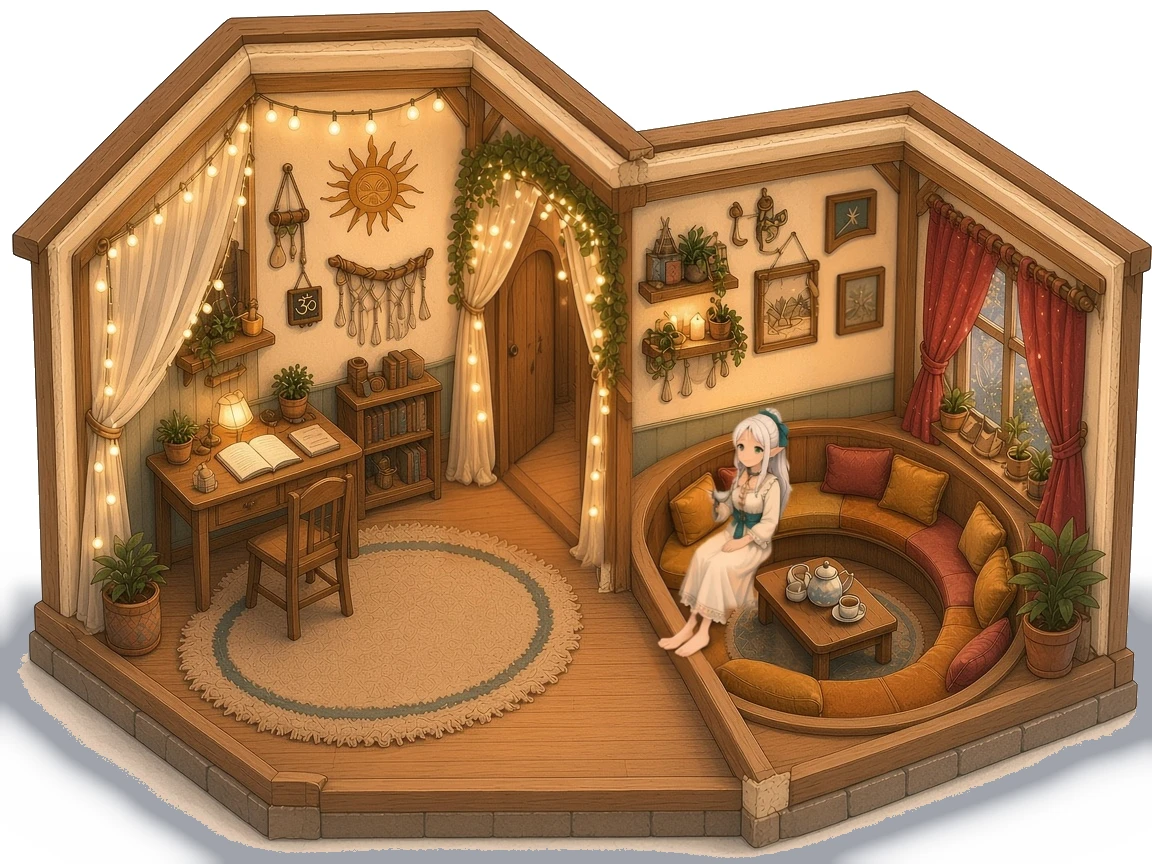
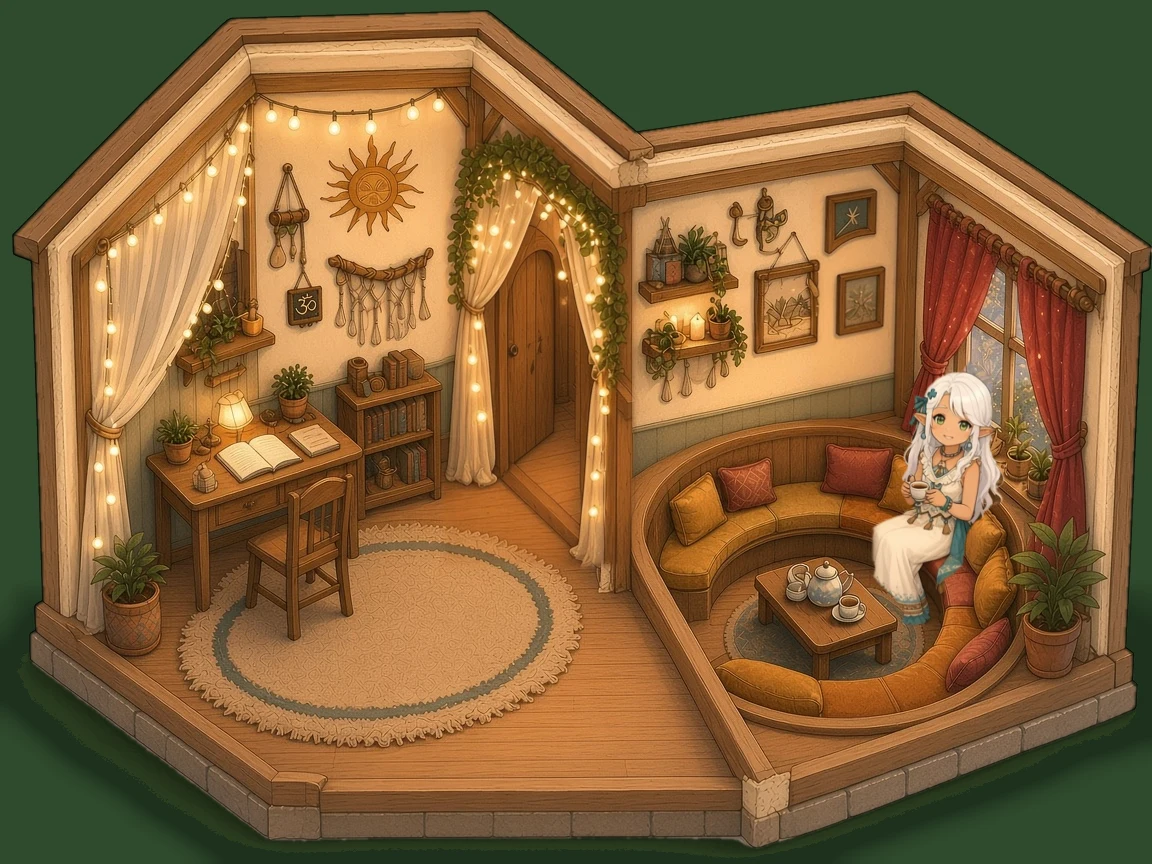
Give Olithia a green surround and a new bedroom.
The four house paintings and her bedroom are the v15 art, and the service worker is bot-town-v15.

diff --git a/sw.js b/sw.js
@@ -1,4 +1,4 @@
-const CACHE = 'bot-town-v14';
+const CACHE = 'bot-town-v15';
 const ASSETS = ['./', 'index.html', 'style.css', 'config.js', 'music.js', 'app.js', 'manifest.json',
   'assets/map-v2.webp', 'assets/starfall-hill-scene.webp',
   'assets/olithia-house-v4.webp', 'assets/olithia-house-v4-exterior.webp',
@@ -6,7 +6,7 @@ const ASSETS = ['./', 'index.html', 'style.css', 'config.js', 'music.js', 'app.j
   'assets/gorbo-house-v3-idle.webp', 'assets/gorbo-house-v3-working.webp', 'assets/gorbo-house-v3-sitting.webp',
   'assets/loria-house-v3-idle.webp', 'assets/loria-house-v3-working.webp', 'assets/loria-house-v3-sitting.webp',
   'assets/scout-house-v3-idle.webp', 'assets/scout-house-v3-working.webp', 'assets/scout-house-v3-sitting.webp',
-  'assets/olithia-bedroom.webp', 'assets/gorbo-bedroom-v2.webp', 'assets/loria-bedroom.webp', 'assets/scout-bedroom.webp',
+  'assets/olithia-bedroom-v2.webp', 'assets/gorbo-bedroom-v2.webp', 'assets/loria-bedroom.webp', 'assets/scout-bedroom.webp',
   'assets/room-scout.webp', 'assets/olithia.png', 'assets/scout.png',
   'assets/icon-192.png', 'assets/icon-512.png', 'assets/apple-touch-icon.png'];
 self.addEventListener('install', e => { e.waitUntil(caches.open(CACHE).then(c => c.addAll(ASSETS))); self.skipWaiting(); });

diff --git a/config.js b/config.js
@@ -107,7 +107,7 @@ window.BOT_TOWN = {
     "olithia-bed": {
       name: "Olithia", role: "Bedroom", house: "Lotus Cottage",
       gallery: true, returnTo: "olithia",
-      room: { image: "assets/olithia-bedroom.webp", aspect: 720 / 1280, backdrop: "radial-gradient(circle at 50% 45%, #fff1d6, #f3cfa0 55%, #c98f5e)" }
+      room: { image: "assets/olithia-bedroom-v2.webp", aspect: 720 / 1280, backdrop: "radial-gradient(circle at 50% 45%, #fff1d6, #f3cfa0 55%, #c98f5e)" }
     },
     "gorbo-bed": {
       name: "Gorbo", role: "Bedroom", house: "Mossy Workshop",

diff --git a/README.md b/README.md
@@ -14,7 +14,7 @@ A cozy phone web game (installable PWA). Plain HTML/CSS/JS — no build step.
 - Characters: Olithia (Lotus Cottage), Gorbo (Mossy Workshop), Loria (Bookshop) and Scout (his cottage, painted on the map). Each house interior is a painting with Idle / Working / Sitting buttons. A glowing door in each house opens that character's bedroom. Scout's burrow is still under Loria's shop: the round hobbit door in her middle room, or the "Down to Scout's burrow" button. Starfall Hill is painted at the bottom of the map and opens a night scene with no pose buttons.
 - The map is a tall picture (`map-v2.webp`) that fills the phone width and scrolls vertically. House name labels are painted signs on the map.
 - **music.js**: generated ambient tracks.
-- After changing files, bump `CACHE` in `sw.js` (currently `bot-town-v14`) so installed phones fetch the update.
+- After changing files, bump `CACHE` in `sw.js` (currently `bot-town-v15`) so installed phones fetch the update.
 - Rooms have a few pixels of tilt (or finger) parallax, drifting motes, lamp glow, and a breathing vignette. The map has slow clouds. `prefers-reduced-motion` turns the motion off.
 
 ## Testing tips
